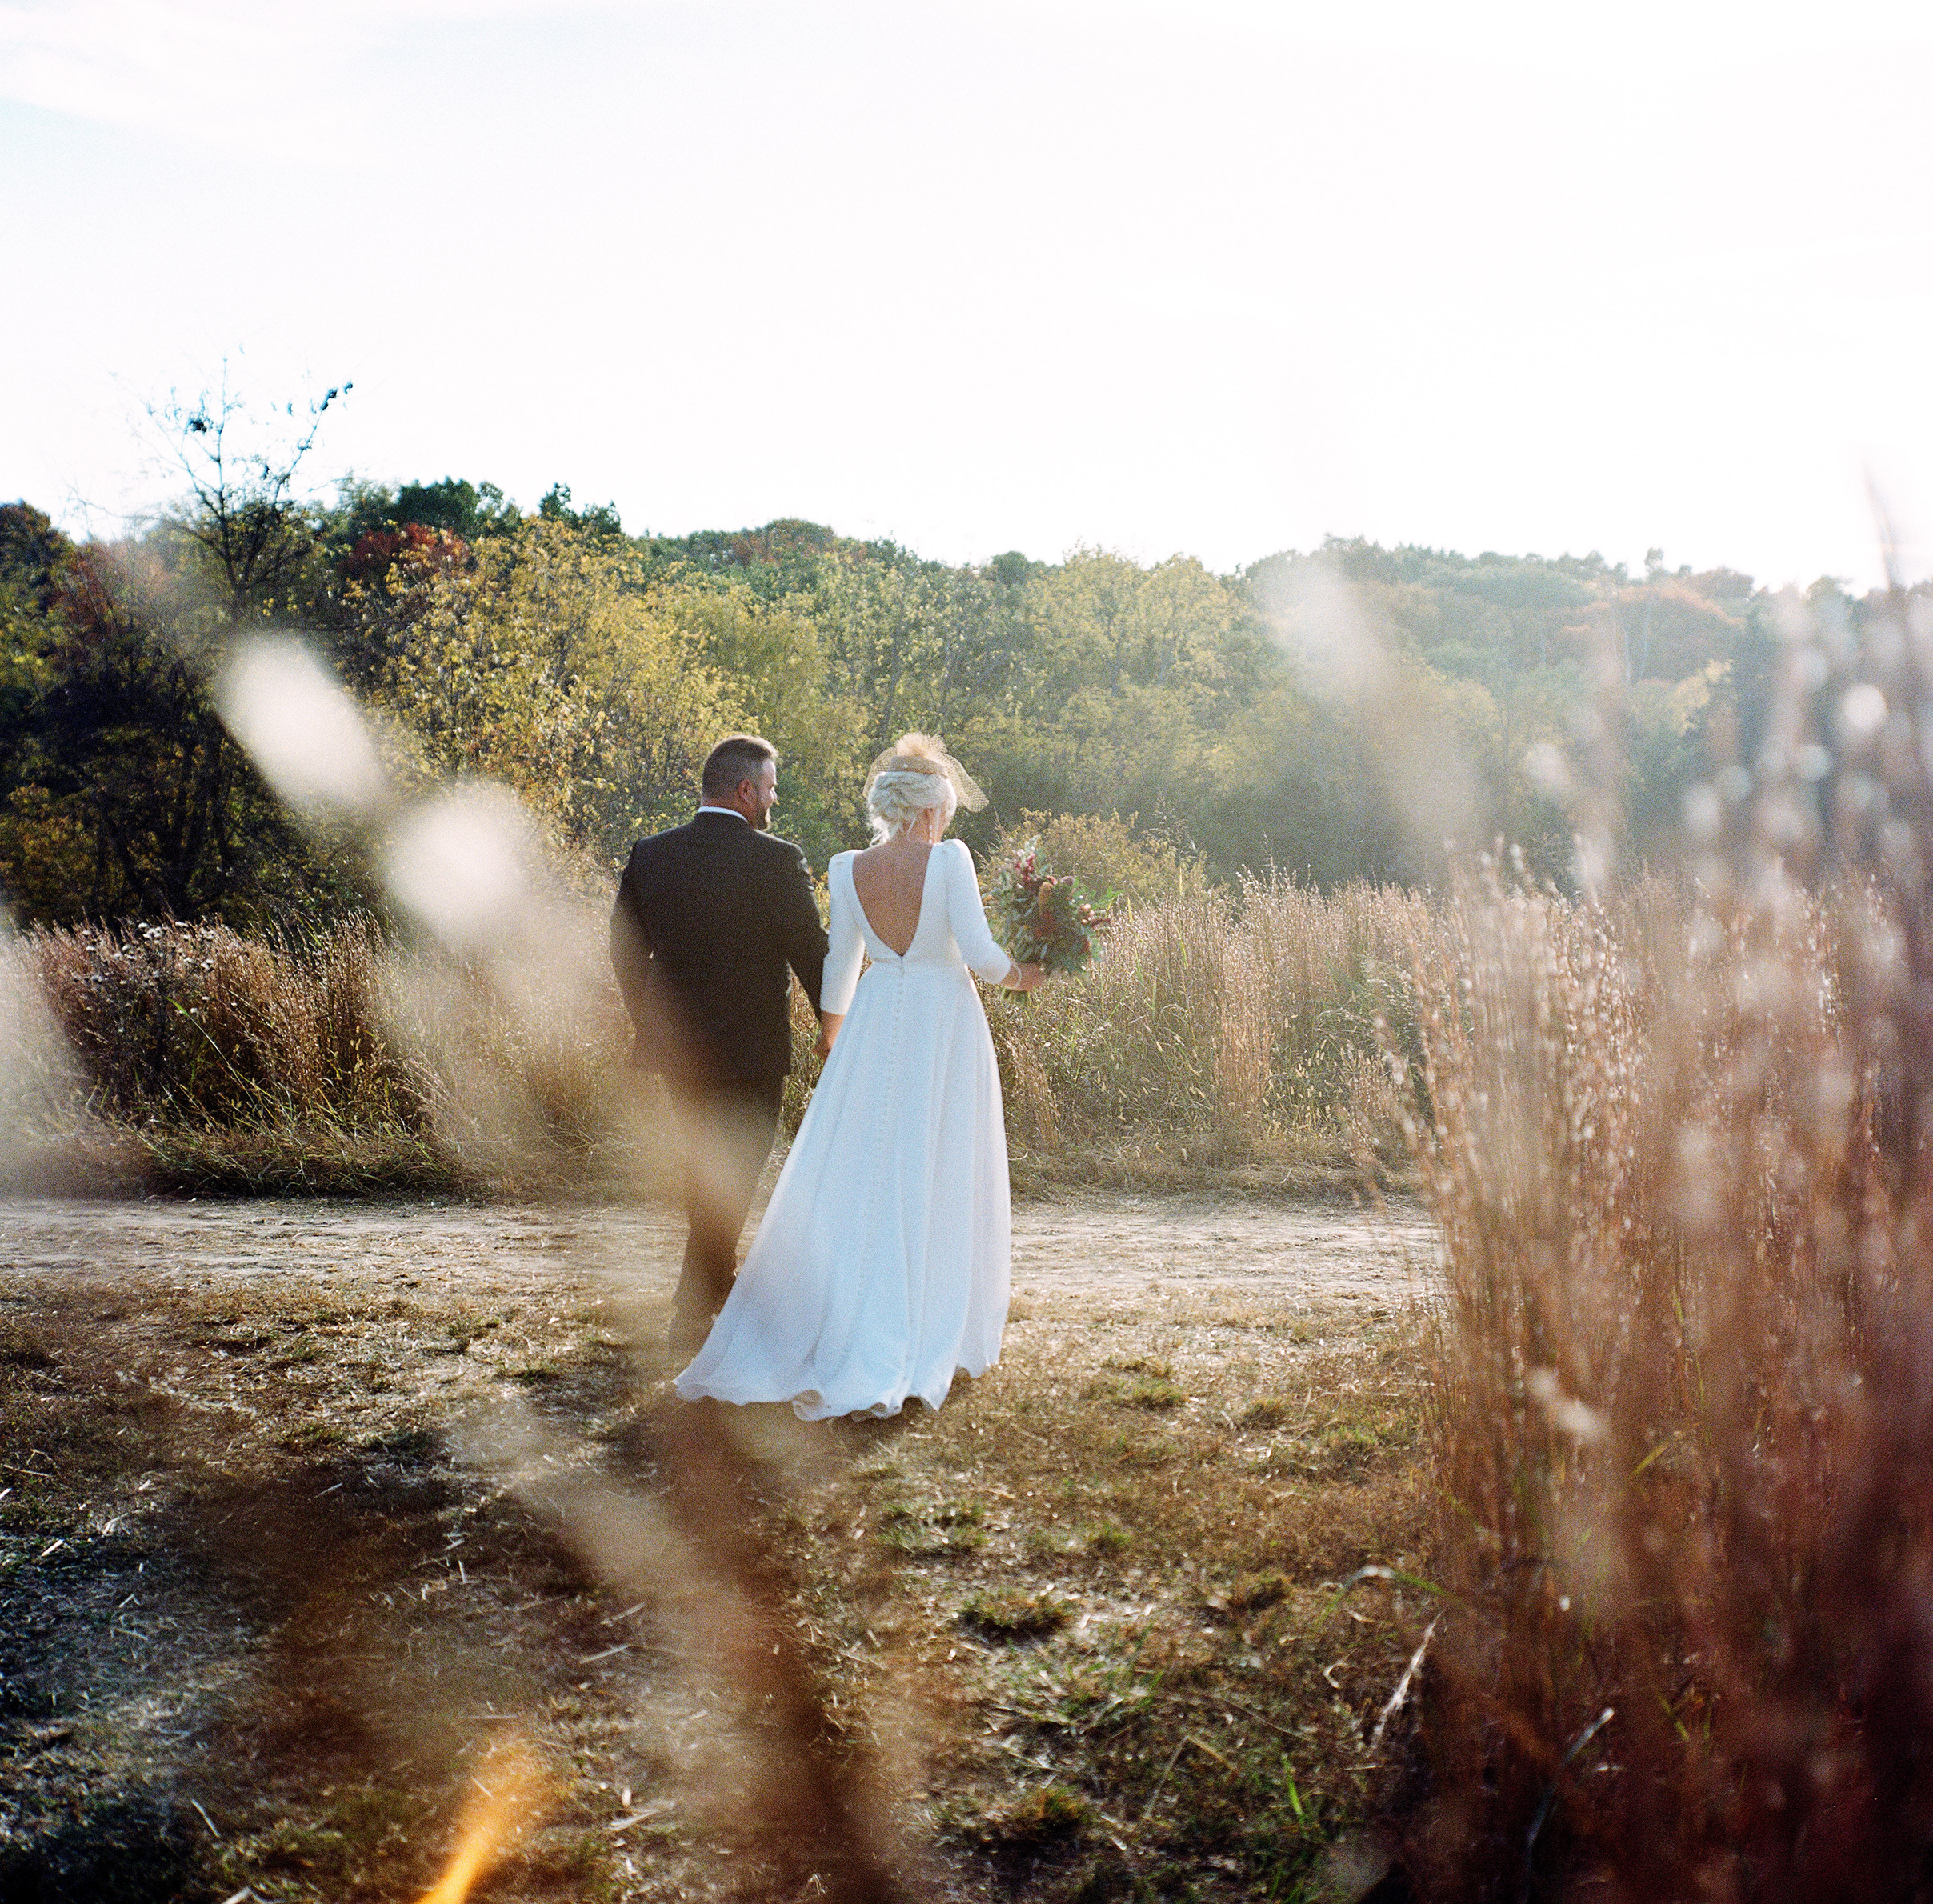
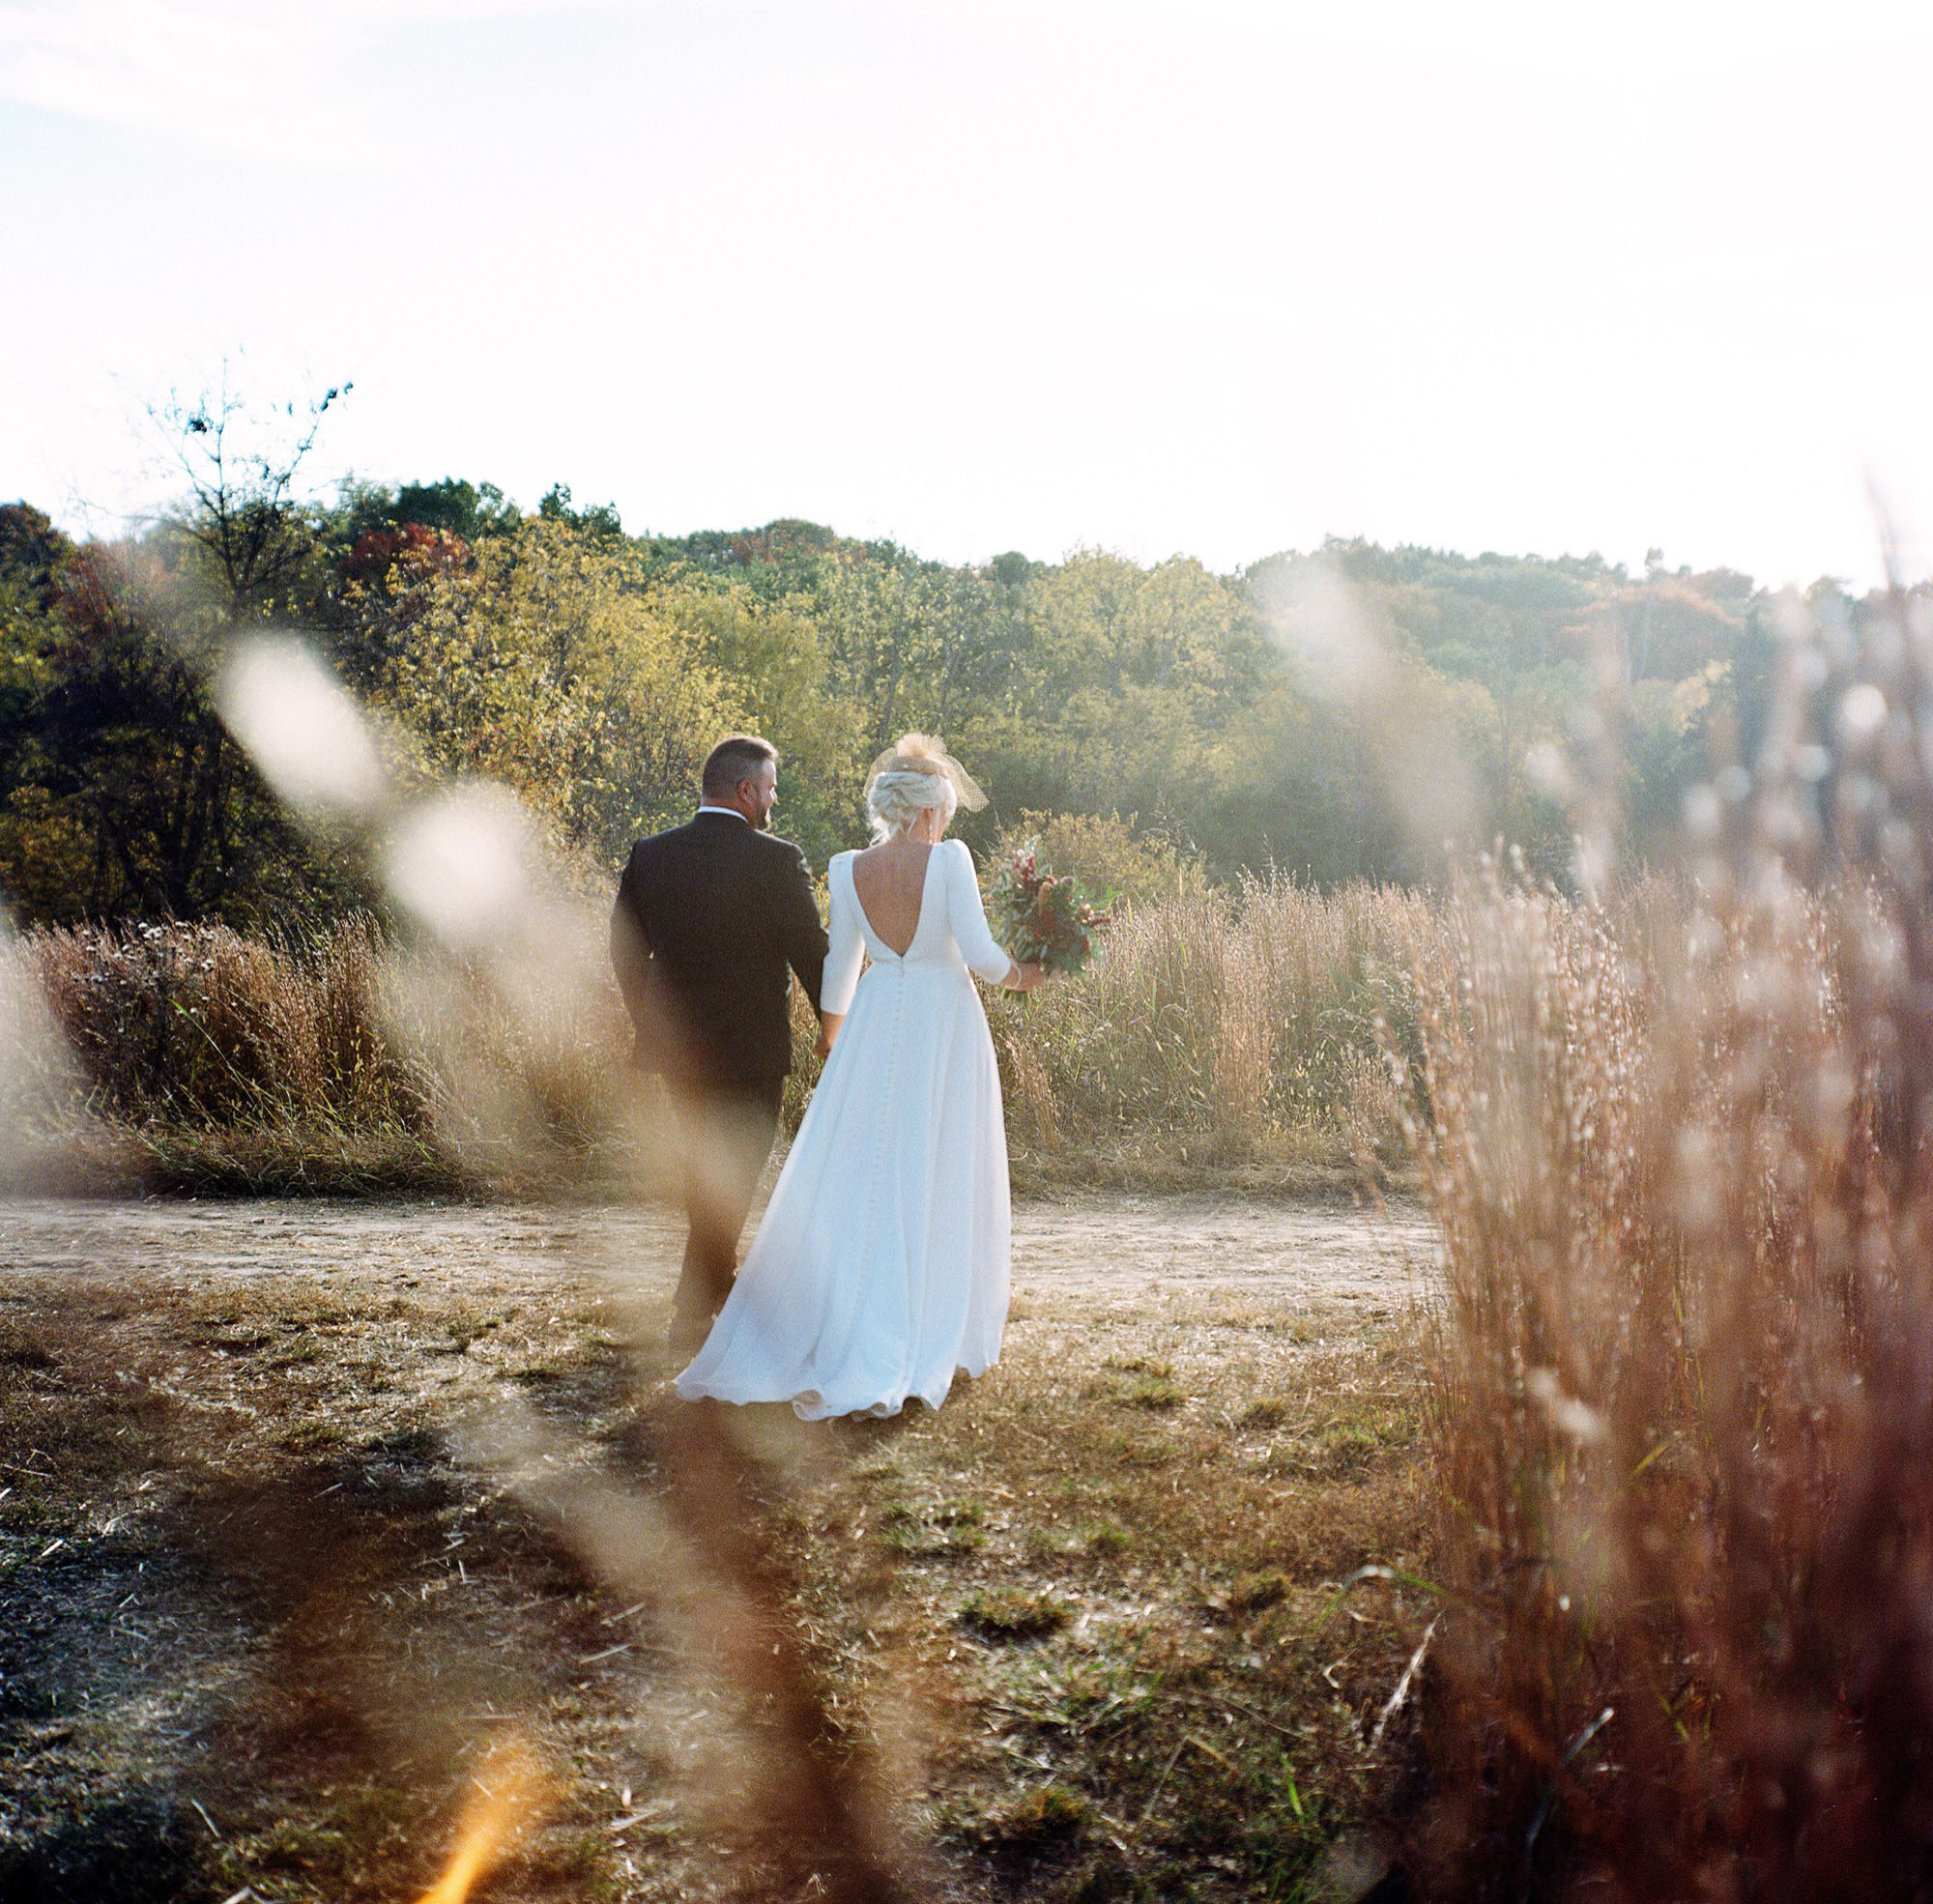
Preload hero images and compress outdoor-couple.jpg
Hero background-images load late since browsers don't discover CSS
inline background-image the way they do <img> tags. Added preload
hints so the visible slide fetches first. Also resized/recompressed
outdoor-couple.jpg (2.9MB -> 778K) to match the other hero images.

diff --git a/index.html b/index.html
@@ -4,6 +4,9 @@
 <meta charset="UTF-8">
 <meta name="viewport" content="width=device-width, initial-scale=1.0">
 <title>Billy Grubbs | Film Photography Co.</title>
+<link rel="preload" as="image" href="images/hero/staircase-veil.jpg" fetchpriority="high">
+<link rel="preload" as="image" href="images/hero/portrait.jpg">
+<link rel="preload" as="image" href="images/hero/outdoor-couple.jpg">
 <link href="https://fonts.googleapis.com/css2?family=Jost:wght@200;300;400;500&family=EB+Garamond:ital,wght@0,400;1,400&family=Raleway:wght@300;400;500;600&display=swap" rel="stylesheet">
 <link rel="stylesheet" href="css/styles.css">
 <link rel="stylesheet" href="https://unpkg.com/photoswipe@5/dist/photoswipe.css">